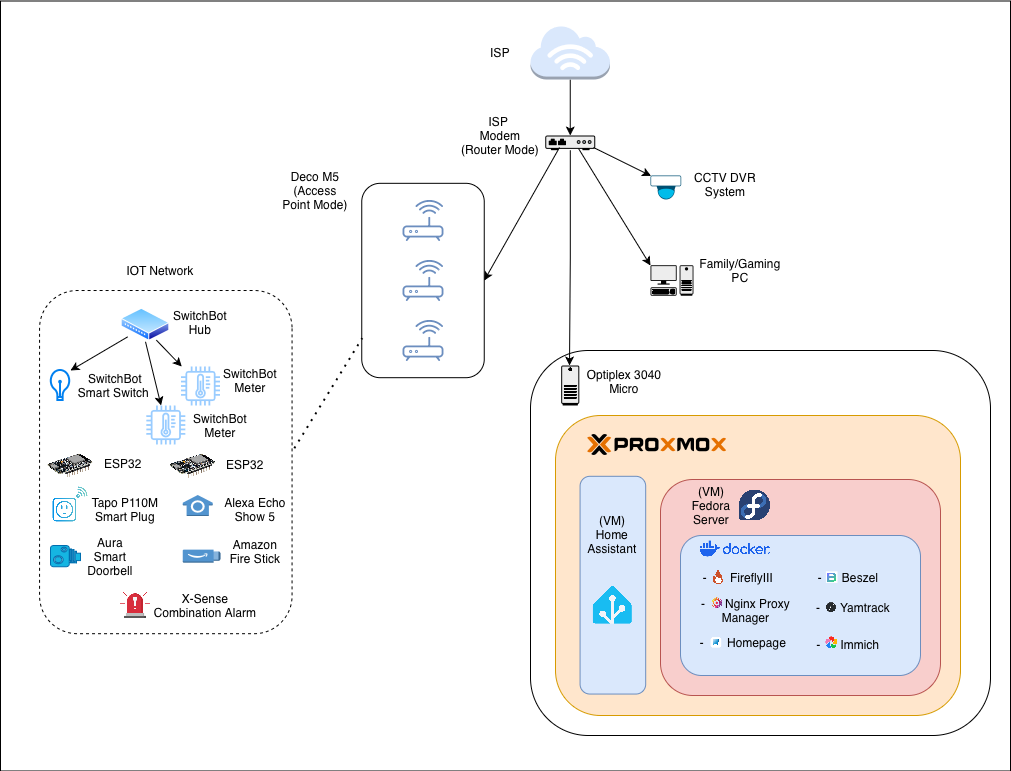
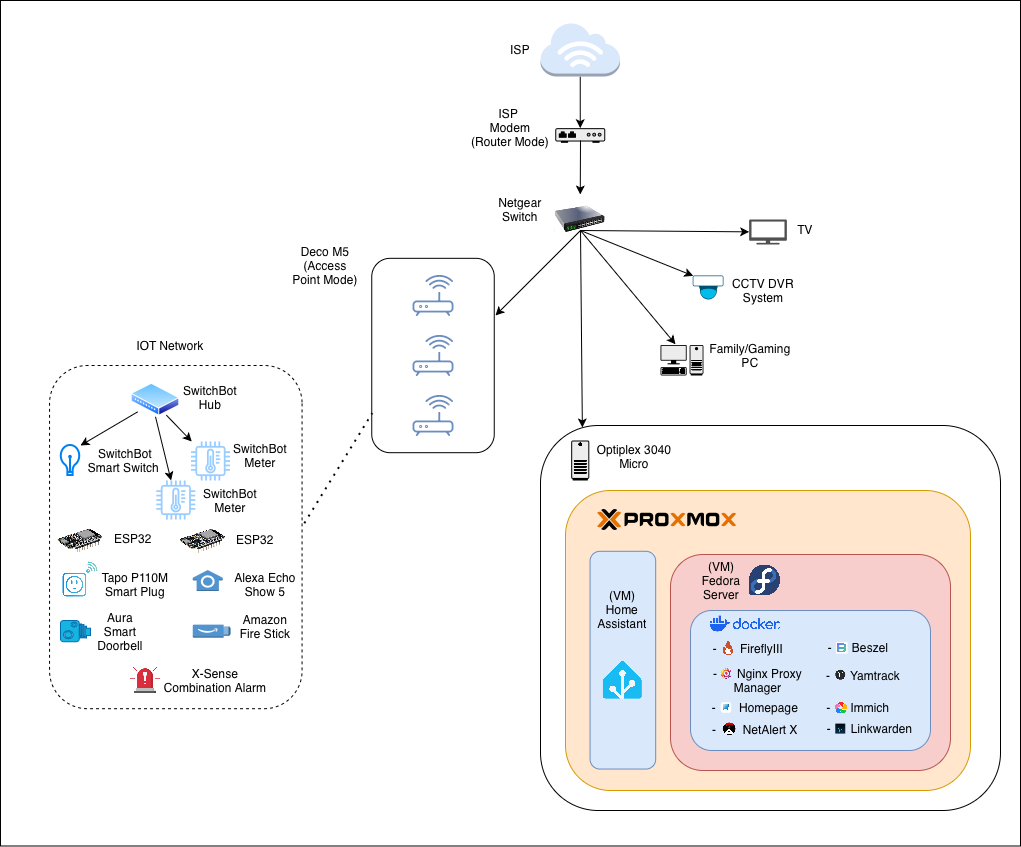
feat: Updated homelab infrastructure and added new services

diff --git a/index.html b/index.html
@@ -189,6 +189,15 @@
               alt="Homelab Network Topology"
             />
           </div>
+
+          <p>
+            I use a <b>Netgear managed switch</b> as the central networking
+            point of the homelab. All devices are connected to it and cleanly
+            organised and allows for additional Ethernet ports. The switch
+            allows for advanced features such as <b>VLANs</b>, however I have
+            not implemented this yet due to the Deco M5 not being VLAN aware.
+          </p>
+
           <p>Currently I run two Virtual Machines (VMs):</p>
 
           <ul class="wiki-list">
@@ -354,6 +363,28 @@
               I run the <b>Netbird Agent</b> on my machine. Using their free
               tier, it creates a mesh VPN that allows me to remotely access my
               local network and services securely when I am away from home.
+            </p>
+          </div>
+
+          <hr class="wiki-divider-subtle" />
+
+          <div class="service-item">
+            <h4>11. Linkwarden</h4>
+            <p>
+              A self-hosted bookmark manager. I use this to save and organise
+              important links with tags and collections. It also archives the
+              bookmarked link to prevent link rot.
+            </p>
+          </div>
+
+          <hr class="wiki-divider-subtle" />
+
+          <div class="service-item">
+            <h4>12. NetAlert X</h4>
+            <p>
+              I use this to monitor my network and discover devices. It tracks
+              all connections and helps me maintain visibility on what is
+              happening on my network.
             </p>
           </div>
 
